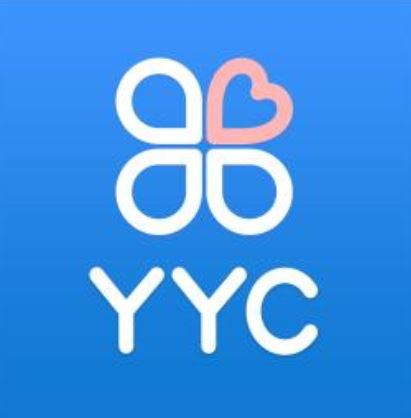
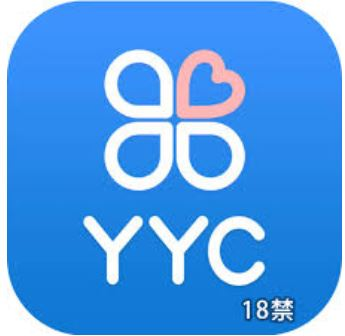
Yahoo!完成

diff --git a/deai/yahoo_deai.html b/deai/yahoo_deai.html
@@ -10,8 +10,8 @@ j=d.createElement(s),dl=l!='dataLayer'?'&l='+l:'';j.async=true;j.src=
 <!-- End Google Tag Manager -->
     <meta charset="UTF-8">
     <meta http-equiv="X-UA-Compatible" content="IE=edge" />
-    <title>【2018最新】人気の出会い系サイトランキング</title>
-    <meta name="description" content="あなたにぴったりの出会い系サイトがみつかる！">
+    <title>【2018最新】人気の恋愛マッチングランキング</title>
+    <meta name="description" content="あなたにぴったりの恋愛マッチングサイトがみつかる！">
     <meta name="viewport" content="width=device-width, maximum-scale=1.0, minimum-scale=0.5,user-scalable=yes,initial-scale=1.0">
     <!--[if lt IE 9]>
 	    <script src="js/html5shiv.js"></script>
@@ -38,19 +38,18 @@ height="0" width="0" style="display:none;visibility:hidden"></iframe></noscript>
         <div class="left">
             <div class="logo">
                 <p class="angle">サクラなし！</p>
-                <div class="title-logo"><p><span>人気の出会い系サイト厳選</span></p></div>
+                <div class="title-logo"><p><span>人気の恋愛マッチング厳選</span></p></div>
                 <img class="logo-img-2" src="images/woman.png">
             </div>
  <div class="sub-title">
         <div class="container">
-            <p>匿名で安全！遊び相手も見つけやすいサイト<br class="psbr"></p>
+            <p>匿名性で安全！恋愛マッチング<br class="psbr"></p>
         </div>
     </div>
 <div class="kfontsize">
-出会い系アプリでは、Facebookの登録が必須のケースが多いですが
-当サイトでは、<font color="blue">SNSなしでも安全に出会える人気サイト</font>を集めました。もちろん女性は無料のサイトです。</br>
-<font color="blue">全て、意思次第で遊び相手も本気相手を見つけるやすいサイトです。</font>
-※18歳未満の方はご利用できません。予めご了承ください。
+アプリでは、Facebookの登録が必須のケースが多いですが
+当サイトでは、<font color="blue">SNSなしでも安全に恋愛できるサイト</font>を集めました。もちろん女性は無料のサイトです。</br>
+<font color="blue">意思次第で遊び相手や友達、本気相手を見つけるやすいサイトです。</font>
   </div>
  <div class="sub-title">
 
@@ -70,7 +69,7 @@ height="0" width="0" style="display:none;visibility:hidden"></iframe></noscript>
                     <img class="rank-img" src="images/ranking-1.png">
 
                     <p class="product-name">
-<a href="https://track.bannerbridge.net/click.php?APID=89115&affID=92390&siteID=181045" rel="nofollow" target="_blank">ハッピーメール（18禁）</a><img src="https://track.bannerbridge.net/adtserv.php?APID=89115&affID=92390&siteID=181045" width="1" height="1" border="0"style="display: none !important;">
+<a href="https://track.bannerbridge.net/click.php?APID=89115&affID=92390&siteID=181045" rel="nofollow" target="_blank">ハッピーメール</a><img src="https://track.bannerbridge.net/adtserv.php?APID=89115&affID=92390&siteID=181045" width="1" height="1" border="0"style="display: none !important;">
 
                         <br><img class="star-rank-sp" src="images/star-5.png">
                     </p>
@@ -80,9 +79,9 @@ height="0" width="0" style="display:none;visibility:hidden"></iframe></noscript>
                     <div class="rank-right">
                         <img class="star-rank" src="images/star-5.png">
 
-   <p class="target">本当に出会えるから会員数最多！</p>
-   <p class="ktext">・無料登録でポイントがもらえる</p>
-   <p class="ktext">・遊び相手も見つけやすいと口コミ多数<br>・掲示板機能で近所の人の投稿がみれる</p>
+   <p class="target">会員数最多！口コミで圧倒的人気</p>
+   <p class="ktext">・電話番号認証でポイントもらえる</p>
+   <p class="ktext">・無料でもけっこう遊べる<br>・掲示板機能で近所の人の投稿がみれる</p>
 
   <div class="go-to-ranking"><a href="https://track.bannerbridge.net/click.php?APID=89115&affID=92390&siteID=181045" rel="nofollow" target="_blank">詳しくはこちら</a><img src="https://track.bannerbridge.net/adtserv.php?APID=89115&affID=92390&siteID=181045" width="1" height="1" border="0"style="display: none !important;"></div>
 
@@ -98,8 +97,8 @@ height="0" width="0" style="display:none;visibility:hidden"></iframe></noscript>
                     <img class="rank-img" src="images/ranking-2.png">
 
                     <p class="product-name">
-<a href="https://track.bannerbridge.net/click.php?APID=20497&affID=92390&siteID=181045" rel="nofollow" target="_blank">Jメール（18禁）</a><img src="https://track.bannerbridge.net/adtserv.php?APID=20497&affID=92390&siteID=181045" width="1" height="1" border="0"style="display: none !important;">
-                       <img class="star-rank-sp" src="images/star-4.5.png">
+<a href="https://track.bannerbridge.net/click.php?APID=20497&affID=92390&siteID=181045" rel="nofollow" target="_blank">Jメール</a><img src="https://track.bannerbridge.net/adtserv.php?APID=20497&affID=92390&siteID=181045" width="1" height="1" border="0"style="display: none !important;">
+</br>   <img class="star-rank-sp" src="images/star-4.5.png">
                     </p>
                     <div class="rank-left">
                         <img class="product-img" src="images/mintjc.jpg" width="650" height="650">
@@ -107,7 +106,7 @@ height="0" width="0" style="display:none;visibility:hidden"></iframe></noscript>
                     <div class="rank-right">
                         <img class="star-rank" src="images/star-4.5.png">
                         <p class="target">匿名で安全。SNS登録不要<br></p>
-                        <p class="ktext">・ニックネーム制で本名がばれない<br>・新規登録で100Pの無料ポイント<br>・メールが無料になる等の特典がよくある。</p>
+                        <p class="ktext">・ニックネーム制で本名不要<br>・新規登録で100Pの無料ポイント<br>・メールが無料になる等の特典がよくある。</p>
   <div class="go-to-ranking"><a href="https://track.bannerbridge.net/click.php?APID=20497&affID=92390&siteID=181045" rel="nofollow" target="_blank">詳しくはこちら</a><img src="https://track.bannerbridge.net/adtserv.php?APID=20497&affID=92390&siteID=181045" width="1" height="1" border="0"style="display: none !important;"></div>
 
                     </div>
@@ -121,24 +120,23 @@ height="0" width="0" style="display:none;visibility:hidden"></iframe></noscript>
 
                     <img class="rank-img" src="images/ranking-3.png">
                     <p class="product-name">
-<a href="https://track.bannerbridge.net/click.php?APID=16092&affID=92390&siteID=181045" rel="nofollow" target="_blank">ラブサーチ</a><img src="https://track.bannerbridge.net/adtserv.php?APID=16092&affID=92390&siteID=181045" width="1" height="1" border="0"style="display: none !important;">
+<a href="https://track.bannerbridge.net/click.php?APID=37773&affID=92390&siteID=181045" rel="nofollow" target="_blank">デジカフェ</a><img src="https://track.bannerbridge.net/adtserv.php?APID=37773&affID=92390&siteID=181045" width="1" height="1" border="0"style="display: none !important;">
 
                         <br><img class="star-rank-sp" src="images/star-4.5.png">
                     </p>
                     <div class="rank-left">
-                        <img class="product-img" src="images/lovesearch.JPG" width="650" height="650">
+                        <img class="product-img" src="images/dejicafe.JPG" width="650" height="650">
                     </div>
                     <div class="rank-right">
                         <img class="star-rank" src="images/star-4.5.png">
 
-                        <p class="target">完全会員制で出会い率88.9％！</p>
-                        <p class="ktext">・サイトパトロールを徹底していてサクラゼロ運営。<br>
-                          ・ポイント課金不要で使い放題<br>
-・プライバシー重視、Facebook登録不要</p>
+                        <p class="target">チャット、ブログ、日記が特徴</p>
+                        <p class="ktext">・連絡なしで、日記が読める<br>
+                          ・日記で性格が分かるため、外れにくい！<br>
+・初回ボーナスポイント付でお得！</p>
 
   <div class="go-to-ranking">
-<a href="https://track.bannerbridge.net/click.php?APID=16092&affID=92390&siteID=181045" rel="nofollow" target="_blank">詳しくはこちら</a>
-<img src="https://track.bannerbridge.net/adtserv.php?APID=16092&affID=92390&siteID=181045" width="1" height="1" border="0"style="display: none !important;"></div>
+    <a href="https://track.bannerbridge.net/click.php?APID=37773&affID=92390&siteID=181045" rel="nofollow" target="_blank">詳しくはこちら</a><img src="https://track.bannerbridge.net/adtserv.php?APID=37773&affID=92390&siteID=181045" width="1" height="1" border="0"style="display: none !important;"></div>
 
 
                     </div>
@@ -150,7 +148,7 @@ height="0" width="0" style="display:none;visibility:hidden"></iframe></noscript>
 
                     <img class="rank-img" src="images/ranking-4.png">
                     <p class="product-name">
-<a href="https://track.bannerbridge.net/click.php?APID=26951&affID=92390&siteID=181045" rel="nofollow" target="_blank">mixiのＹＹＣ≪18禁≫</a><img src="https://track.bannerbridge.net/adtserv.php?APID=26951&affID=92390&siteID=181045" width="1" height="1" border="0"style="display: none !important;">
+<a href="https://track.bannerbridge.net/click.php?APID=26951&affID=92390&siteID=181045" rel="nofollow" target="_blank">mixiのＹＹＣ</a><img src="https://track.bannerbridge.net/adtserv.php?APID=26951&affID=92390&siteID=181045" width="1" height="1" border="0"style="display: none !important;">
 
                         <img class="star-rank-sp" src="images/star-4.png">
                     </p>
@@ -159,8 +157,8 @@ height="0" width="0" style="display:none;visibility:hidden"></iframe></noscript>
                     </div>
                     <div class="rank-right">
                         <img class="star-rank" src="images/star-4.png">
-                        <p class="target">お金をかけずに出会うことも可</p>
-                        <p class="ktext">・無料でもらえるポイントでメールできる<br>・「つぶやき」「コミュニティ」など無料で交流可能<br>・mixiグループ運営で安全</p>
+                        <p class="target">お金をかけずにマッチングも可</p>
+                        <p class="ktext">・無料でもらえるポイントで連絡できる<br>・「つぶやき」「コミュニティ」など無料で交流可能<br>・mixiグループ運営で安全</p>
   <div class="go-to-ranking">
 <a href="https://track.bannerbridge.net/click.php?APID=26951&affID=92390&siteID=181045" rel="nofollow" target="_blank">詳しくはこちら</a><img src="https://track.bannerbridge.net/adtserv.php?APID=26951&affID=92390&siteID=181045" width="1" height="1" border="0"style="display: none !important;"></div>
 
@@ -184,7 +182,7 @@ height="0" width="0" style="display:none;visibility:hidden"></iframe></noscript>
                 <div class="rank-right">
                     <img class="star-rank" src="images/star-3.5.png">
 
-                    <p class="target">遊び相手探しに最適なサイト</p>
+                    <p class="target">遊び相手マッチングに最適</p>
                     <p class="ktext">・遊び相手目的で登録している男女が多数と有名！<br>
 ・フリーメール・匿名での登録OK<br>
 ・年会費なし・登録無料 ※年齢認証が必須</p>
@@ -194,14 +192,6 @@ height="0" width="0" style="display:none;visibility:hidden"></iframe></noscript>
                 </div>
                 <div class="clear"></div>
             </div>
-
-
-
-
-
-
-
-
                 <div class="rank-product">
                     </div>
                     <div class="clear"></div>
@@ -234,7 +224,7 @@ height="0" width="0" style="display:none;visibility:hidden"></iframe></noscript>
 <footer>
     <div class="footer-inner">
         <div><a href="http://rboco.sakura.ne.jp/rboco/rbocosite/html/kaisya/gaiyou.html" target="_blank">運営者情報</a></div>
-        <p class="">Copyright (C) 2018 出会い系サイト比較 All Rights Reserved.</p>
+        <p class="">Copyright (C) 2018 マッチング比較 All Rights Reserved.</p>
     </div>
 </footer>
 </body>
